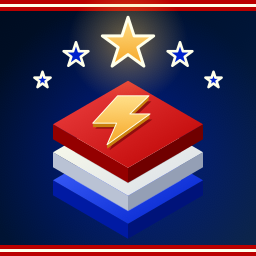
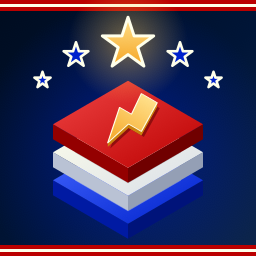
GH#662: feat: lay the top tile's lightning bolt on the tile's isometric axes

Changed region(s): [[0.3438, 0.3438, 0.625, 0.5938]]

diff --git a/DESIGN.md b/DESIGN.md
@@ -10,8 +10,12 @@ Stats: all red with rising bars). SEO Pro Stack's banner
 (`.wordpress-org/banner.svg`) and icon (`.wordpress-org/icon.svg`) have red,
 cream and blue tiles, blue stars and a blue glow, and a gold lightning bolt
 (for speed) laid flat and slightly raised on the top tile. Keep the stack;
-change only the colours or the top tile's picture. Keep the two files in
-step and rebuild with `scripts/build-banner.sh`.
+change only the colours or the top tile's picture. Draw the top tile's
+picture on the tile's isometric axes, as the starter's Plugins icon is: in a
+20-unit space through `matrix(4.95 2.871 -4.95 2.871 1214 -57.42)`, so its
+straight edges run parallel to the tile's edges; squashing it straight down
+is not enough. Keep the two files in step and rebuild with
+`scripts/build-banner.sh`.
 
 ## Theme colours
 
